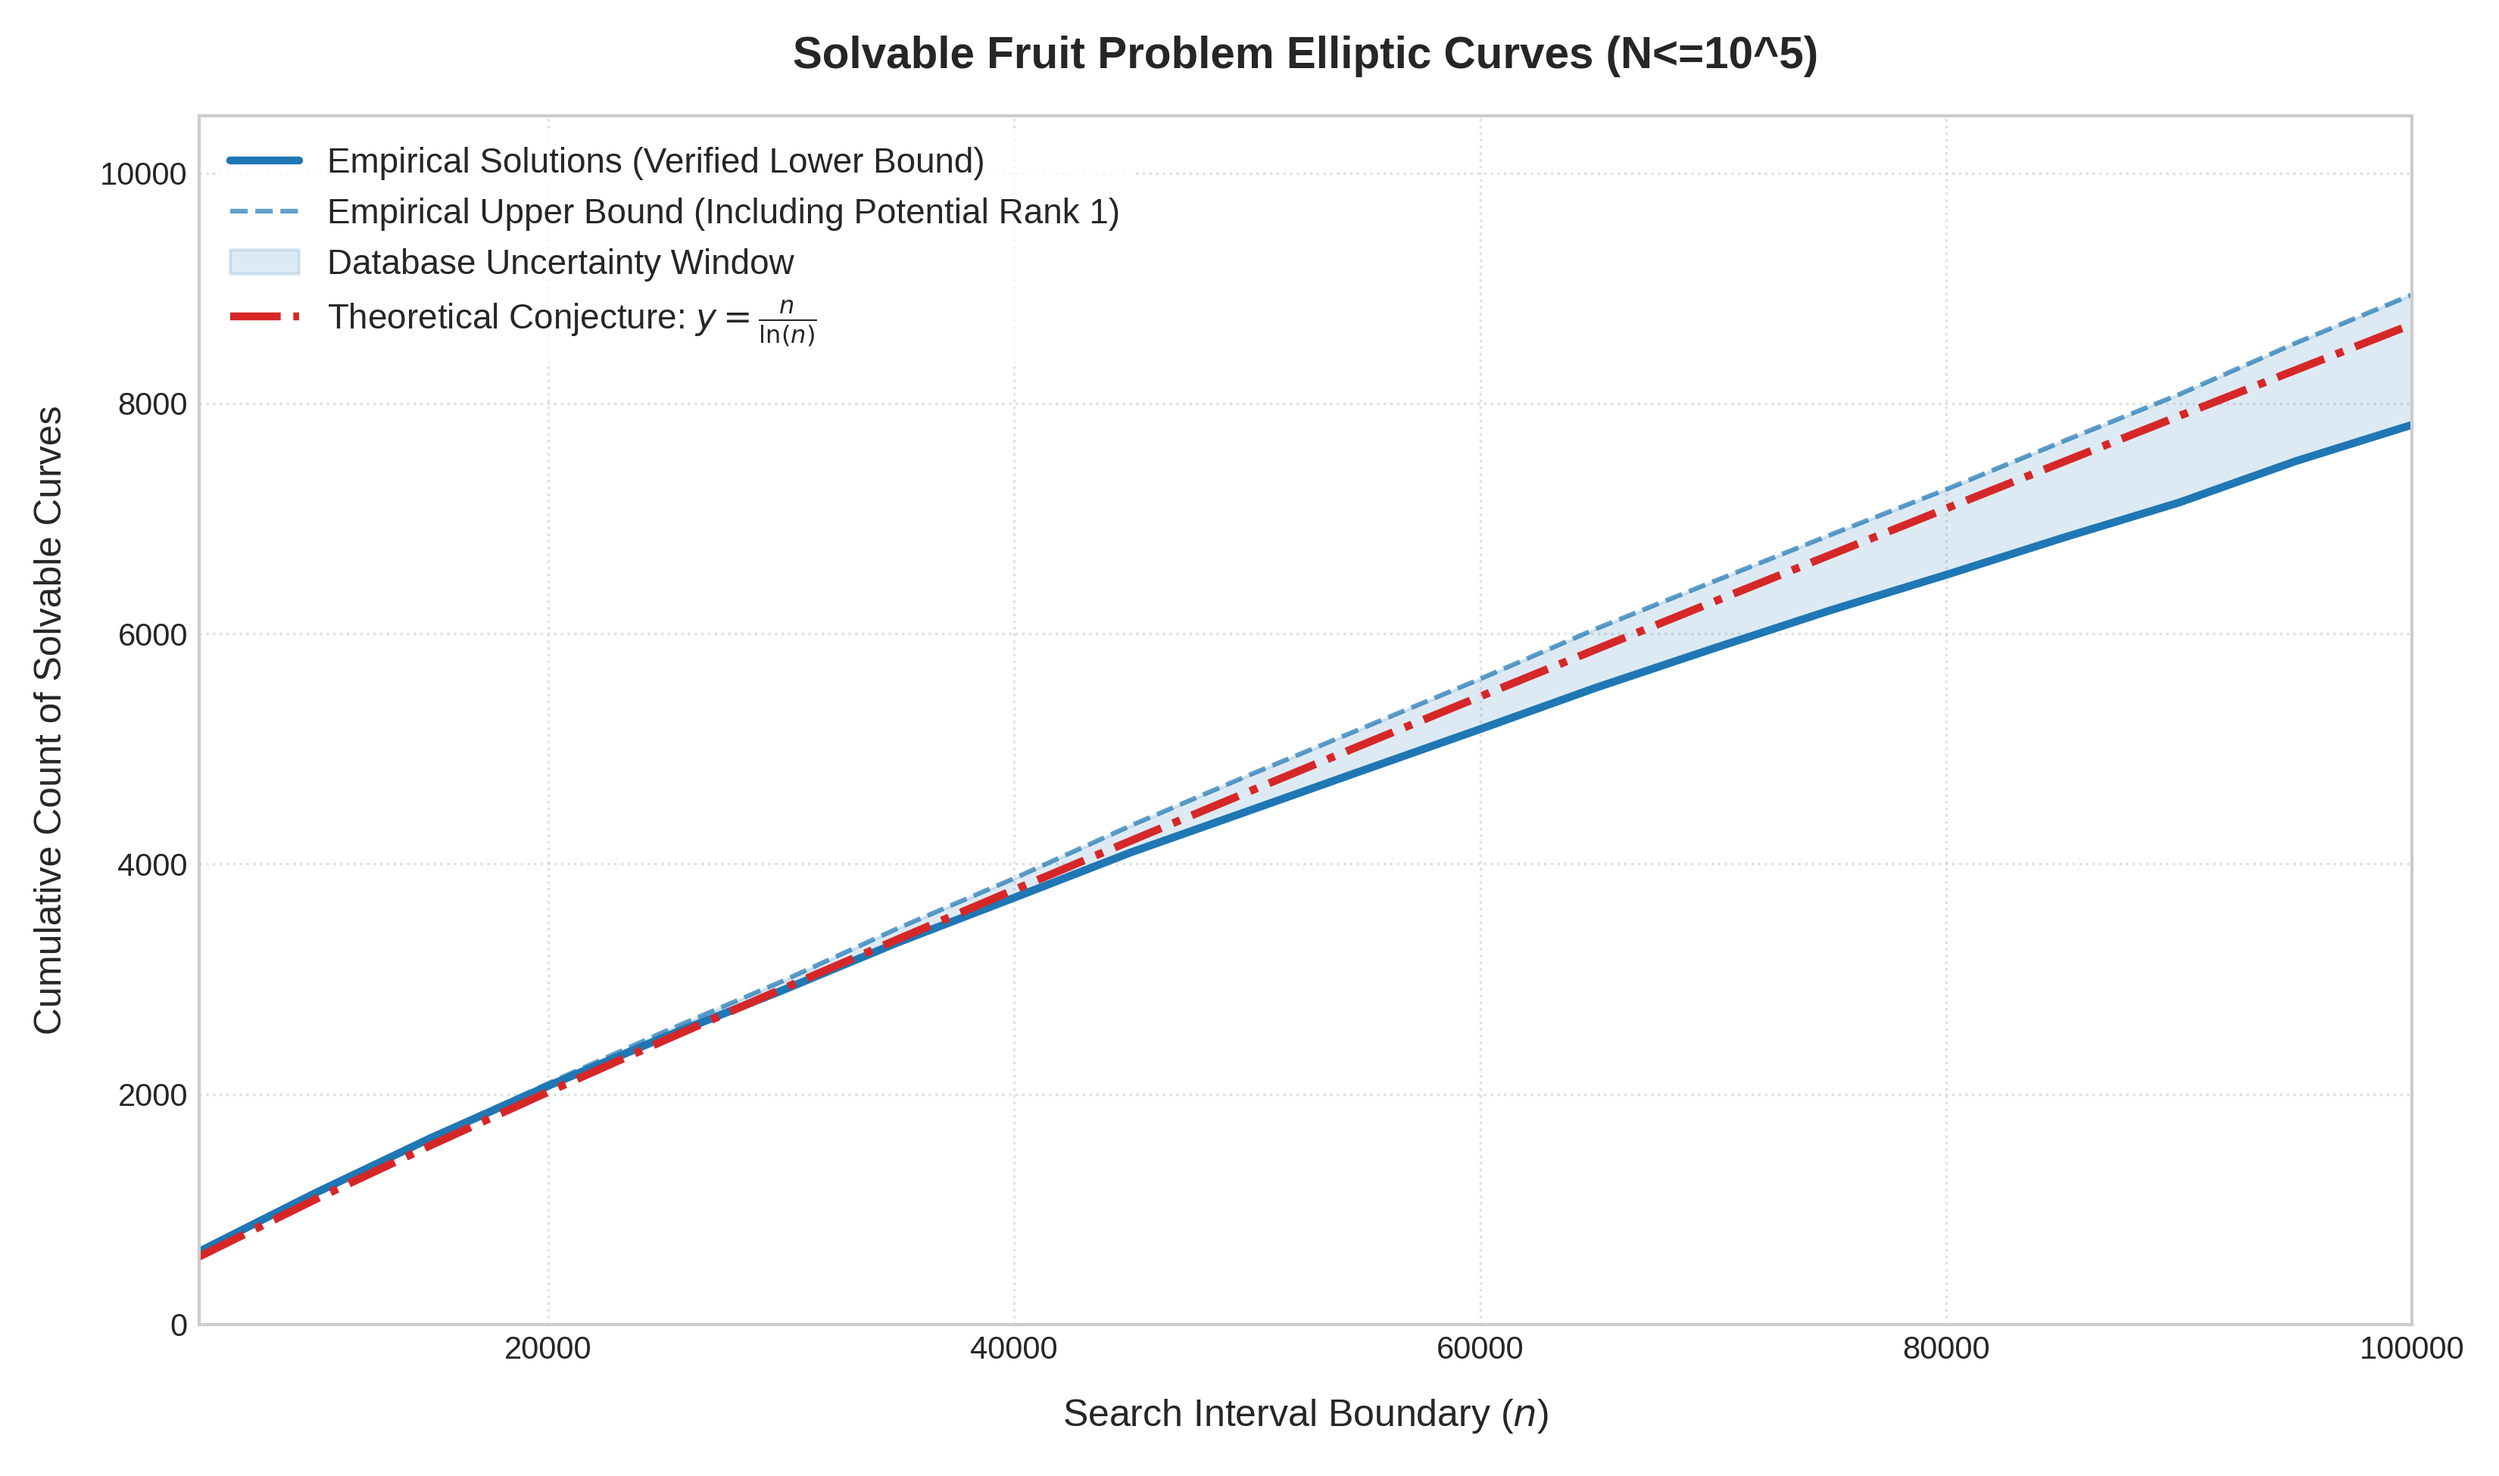
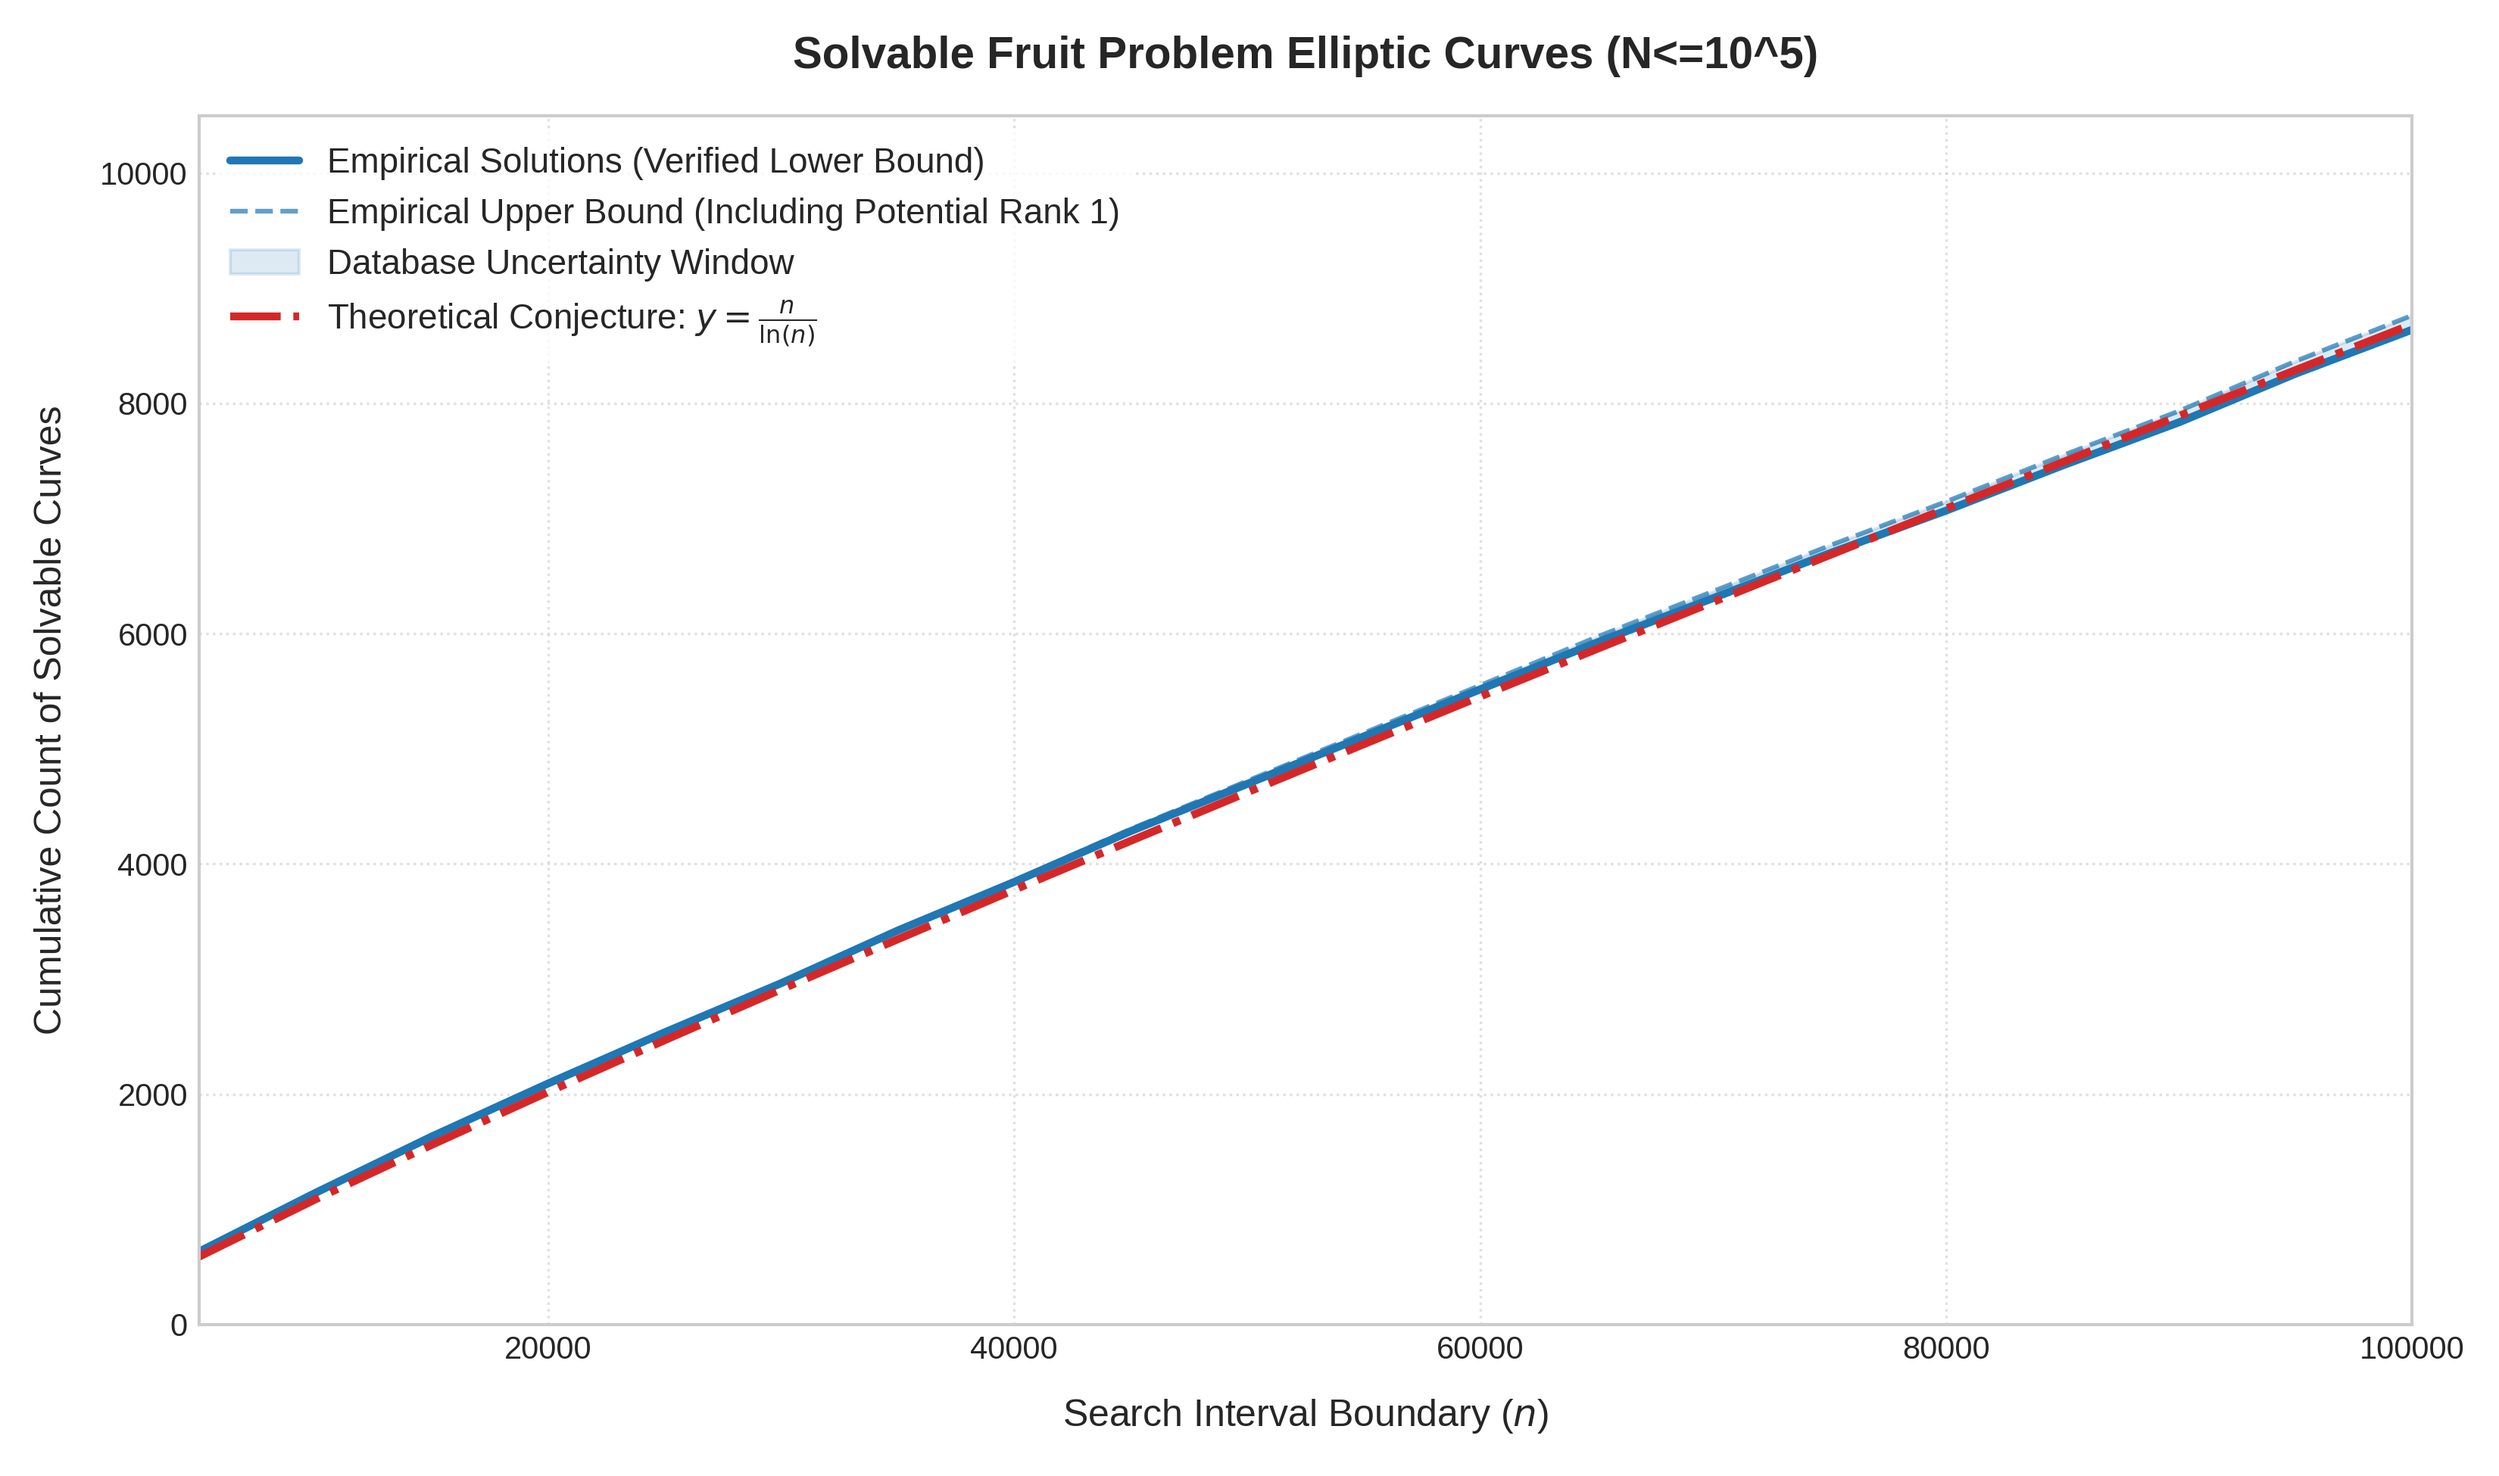
Update to new method of aggregate result

diff --git a/rank_counter.py b/rank_counter.py
@@ -1,14 +1,17 @@
 from collections import Counter
 from fractions import Fraction
 import re, sys
-from sage.all import magma
+from sage.all import magma, EllipticCurve
+def mkc(n):
+    return EllipticCurve([0, 4*n**2 + 12*n - 3, 0, 32*n + 96, 0])
 magma.eval('''
 SetClassGroupBounds("GRH");
+SetVerbose("FourDescent", 1);
 CheckLocalSolubility := function(n)
     P<x> := PolynomialRing(Rationals());
     A := 4*n^2 + 12*n - 3;
     B := 32*n + 96;
-    d4flag := (#TwoSelmerGroup(EllipticCurve([0, A, 0, B, 0])) gt 4) or (#TwoSelmerGroup(EllipticCurve([0, 2*A, 0, A^2-4*B, 0])) gt 4);
+    d4flag := TwoPowerIsogenyDescentRankBound(EllipticCurve([0, A, 0, B, 0]) : MaxSteps:=1) gt 1;
     for d in Divisors(SquareFreeFactorization(B)) do
         HyperE := HyperellipticCurve(-d*x^4 + A*x^2 - B/d);
         if IsLocallySoluble(GenusOneModel(HyperE)) then
@@ -125,6 +128,10 @@ with open(filename, "r") as f:
             invalid += 1
             continue
         rank = get_rank(block)
+        if (-1)**rank != mkc(n).root_number():
+            print(f'Missing generator: {line}')
+            invalid += 1
+            continue
         rank_count[rank] += 1
         if rank == 1:
             if block == "[[]]":
@@ -133,6 +140,7 @@ with open(filename, "r") as f:
                     case 0:
                         rank1_definite_no_solution += 1
                     case 1:
+                        print(f'potential n found: {n}')
                         rank1_potential_solution += 1
                     case 2:
                         rank1_definite_solution += 1

diff --git a/cubic_descent.m b/cubic_descent.m
@@ -154,7 +154,7 @@ CheckLocalSolubility := function(n)
     P<x> := PolynomialRing(Rationals());
     A := 4*n^2 + 12*n - 3;
     B := 32*n + 96;
-    d4flag := (#TwoSelmerGroup(EllipticCurve([0, A, 0, B, 0])) gt 4) or (#TwoSelmerGroup(EllipticCurve([0, 2*A, 0, A^2-4*B, 0])) gt 4);
+    d4flag := TwoPowerIsogenyDescentRankBound(EllipticCurve([0, A, 0, B, 0]) : MaxSteps:=1) gt 1;
     for d in Divisors(SquareFreeFactorization(B)) do
         HyperE := HyperellipticCurve(-d*x^4 + A*x^2 - B/d);
         if IsLocallySoluble(GenusOneModel(HyperE)) then

diff --git a/methods.md b/methods.md
@@ -181,14 +181,15 @@ We test whether $C_d$ is everywhere locally soluble ($\mathbb{R}$ and $\mathbb{Q
 
 #### Definite proof of points on eggs
 
-In lots of cases the $2$-primary part of the Tate-Shafarevich group of both the curve and the $2$-isogenous curve ($\mathrm{Sha}[2](E/\mathbb{Q})$ and $\mathrm{Sha}[2](E'/\mathbb{Q})$) are trivial. We can verify them by checking that the dimension of the $\phi$-Selmer group is $3$, or alternatively the sum of dimension of $2$-Selmer groups of $E$ and $E'$ is $4$. The direct consequence is that every negative $d$ that generates a locally soluble $\phi$-cover must generate a point on the egg. Therefore these $n$ only need local solubility checks to guarantee a point on the egg, without the need of heavy descents.
+In lots of cases the $2$-primary part of the Tate-Shafarevich group of both the curve and the $2$-isogenous curve ($\mathrm{Sha}[2](E/\mathbb{Q})$ and $\mathrm{Sha}[2](E'/\mathbb{Q})$) are trivial. We can verify them by checking that the dimension of the $\phi$-Selmer group is $3$. The direct consequence is that every negative $d$ that generates a locally soluble $\phi$-cover must generate a point on the egg. Therefore these $n$ only need local solubility checks to guarantee a point on the egg, without the need of heavy descents.
 
 ```magma
+SetClassGroupBounds("GRH");
 CheckLocalSolubility := function(n)
     P<x> := PolynomialRing(Rationals());
     A := 4*n^2 + 12*n - 3;
     B := 32*n + 96;
-    d4flag := (#TwoSelmerGroup(EllipticCurve([0, A, 0, B, 0])) gt 4) or (#TwoSelmerGroup(EllipticCurve([0, 2*A, 0, A^2-4*B, 0])) gt 4);
+    d4flag := TwoPowerIsogenyDescentRankBound(EllipticCurve([0, A, 0, B, 0]) : MaxSteps:=1) gt 1;
     for d in Divisors(SquareFreeFactorization(B)) do
         HyperE := HyperellipticCurve(-d*x^4 + A*x^2 - B/d);
         if IsLocallySoluble(GenusOneModel(HyperE)) then

diff --git a/README.md b/README.md
@@ -32,8 +32,8 @@ It can be shown that the density of solvable Fruit Problem equations scale clean
 | Rank | $n\le 10^4$ | $n\le 10^5$ |
 |-:|:-:|:-:|
 |$0$|$4304$|$45003$|
-|$1$|$4970$|$49662$|
-|$2$|$691$|$5089$|
+|$1$|$4970$|$49660$|
+|$2$|$691$|$5091$|
 |$3$|$35$|$241$|
 |$4$|$0$|$5$|
 |$\ge 5$|$0$|$0$|
@@ -42,8 +42,8 @@ It can be shown that the density of solvable Fruit Problem equations scale clean
 | Rank | $n\le 10^4$ | $n\le 10^5$ |
 |-:|:-:|:-:|
 |$0$|$0$|$0$|
-|$1$|$896+[0,1]$|$6332+[0,1131]$|
-|$2$|$226$|$1397$|
+|$1$|$897$|$7157+[0,124]$|
+|$2$|$226$|$1398$|
 |$3$|$19$|$82$|
 |$4$|$0$|$2$|
 |$\ge 5$|$0$|$0$|
